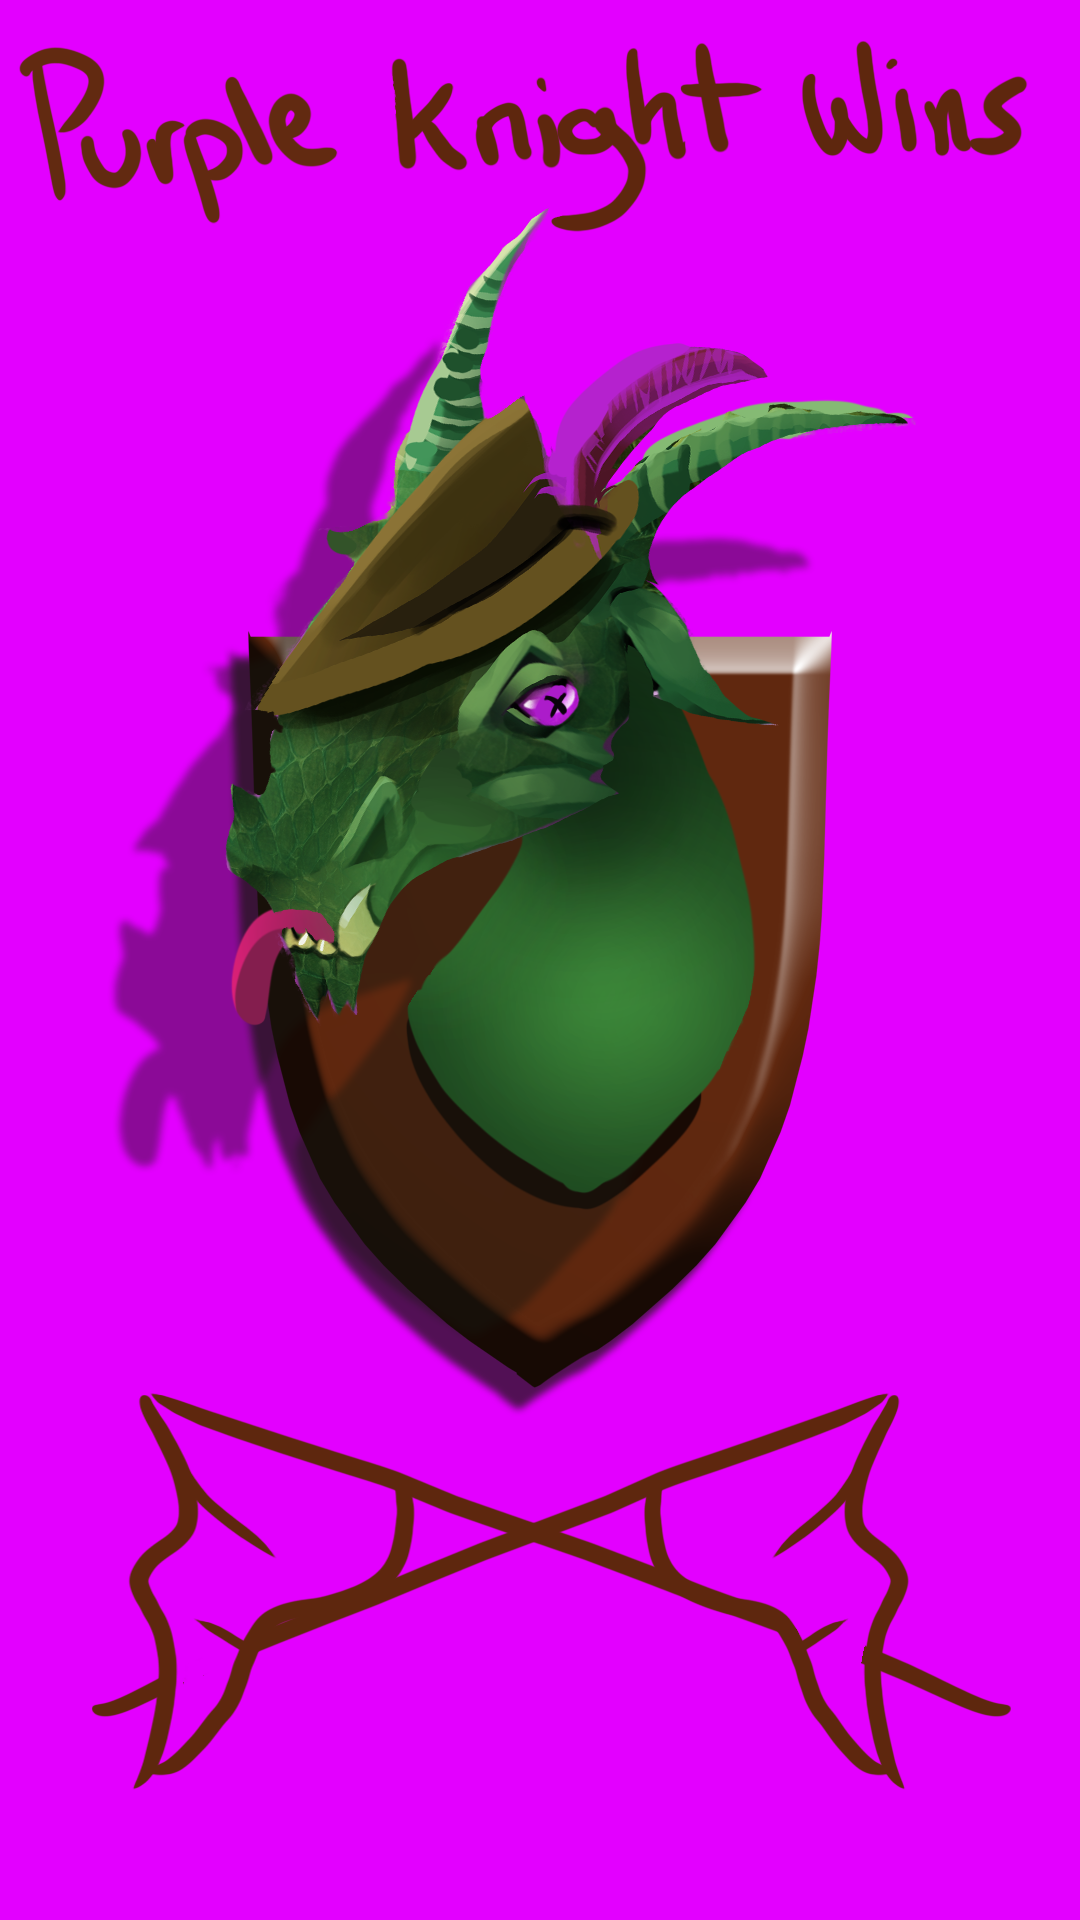
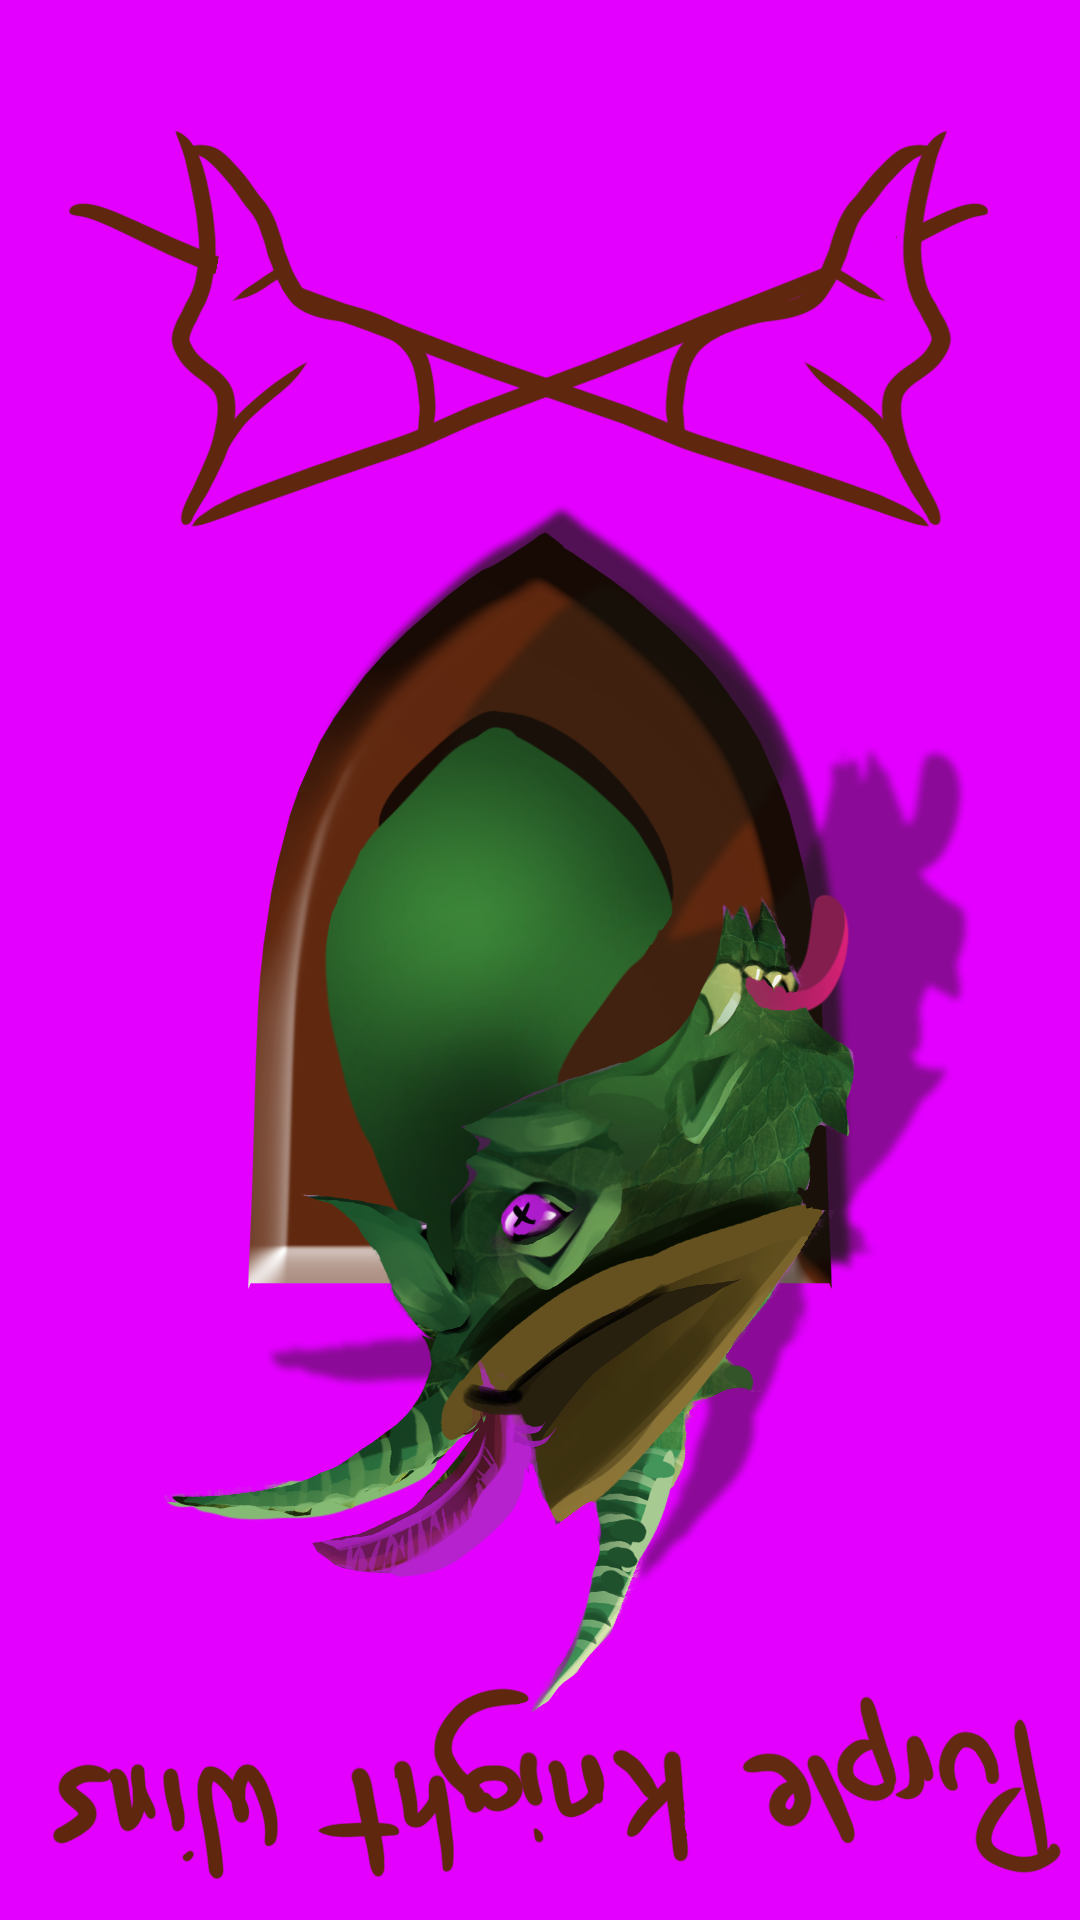
Added credits screen, revamped home screen, added button press noise, changed where end-state redirects to

diff --git a/js/pressable-button.js b/js/pressable-button.js
@@ -1,10 +1,13 @@
 
-var PressableButton = function PressableButton(event, context, team, game, x, y, key) {
+var PressableButton = function PressableButton(event, context, team, game, x, y, key, soundKey) {
   this.pressEvent = event;
   this.originalKey = key;
   this.down = false;
   this.team = team;
   this.eventContext = context;
+
+  if (soundKey)
+    this.sound = game.add.audio(soundKey);
 
   BaseSprite.call(this, game, x, y, key, 0);
 
@@ -20,6 +23,10 @@ var PressableButton = function PressableButton(event, context, team, game, x, y,
   this.events.onInputUp.add(function (sprite, pointer) {
     this.loadTexture(this.originalKey)
     if (this.down && this.pressEvent) {
+
+      if (this.sound)
+        this.sound.play();
+
       this.pressEvent.call(this.eventContext, this.team);
     }
     this.down = false;
@@ -39,6 +46,12 @@ PressableButton.preload = function preload(game) {
   game.load.image('attack-1-down', 'assets/attack-1-down.png');
   game.load.image('deal-1', 'assets/deal-1.png');
   game.load.image('deal-1-down', 'assets/deal-1-down.png');
+  game.load.image('credits-btn', 'assets/credits-btn.png');
+  game.load.image('credits-btn-down', 'assets/credits-btn-down.png');
+  game.load.image('instructions-btn', 'assets/instructions-btn.png');
+  game.load.image('instructions-btn-down', 'assets/instructions-btn-down.png');
+  game.load.image('start-btn', 'assets/start-btn.png');
+  game.load.image('start-btn-down', 'assets/start-btn-down.png');
 };
 
 PressableButton.prototype = Object.create(BaseSprite.prototype);

diff --git a/js/intro-state.js b/js/intro-state.js
@@ -10,19 +10,14 @@ IntroState.prototype.create = function create() {
   Phaser.State.prototype.create.call(this);
 
   this.game.add.image(0, 0, 'intro');
+  var _game = this.game;
+  this.game.add.existing(new PressableButton(function () { _game.state.start('credits'); }, this, 0, this.game, 225, 150, 'credits-btn', 'buttonPress'));
+  this.game.add.existing(new PressableButton(function () { _game.state.start('tutorial'); }, this, 0, this.game, 225, 1715, 'instructions-btn', 'buttonPress'));
+  this.game.add.existing(new PressableButton(function () { _game.state.start('default'); }, this, 0, this.game, 663, 971, 'start-btn', 'buttonPress'));
 
 };
 
 IntroState.prototype.update = function update() {
-    if (this.game.input.activePointer.isDown) {
-      if (this.game.input.activePointer.x > 72 && this.game.input.activePointer.x < 315 &&
-          this.game.input.activePointer.y > 1703 && this.game.input.activePointer.y < 1850) {
-        //72, 1703
-        // 315, 1850
-        this.game.state.start('tutorial');
-      } else if (this.game.input.activePointer.x > 296 && this.game.input.activePointer.x < 1028 &&
-          this.game.input.activePointer.y > 867 && this.game.input.activePointer.y < 1014) {
-        this.game.state.start('default');
-      }
-  }
+
+  
 };

diff --git a/js/main.js b/js/main.js
@@ -35,7 +35,8 @@ function main() {
 
       // Other assets
       //game.load.image('bkg', 'assets/gameboard.png');
-      game.load.image('intro', 'assets/intro.jpg');
+      game.load.image('intro', 'assets/intro.png');
+      game.load.image('credits', 'assets/credits.png');
       game.load.image('instructions', 'assets/instructions.jpg');
       game.load.image('instructions2', 'assets/instructions_page 2.jpg');
       game.load.image('valid-tap', 'assets/valid-tap.png');
@@ -47,6 +48,7 @@ function main() {
       game.load.audio('attack', ['assets/sounds/attack.ogg', 'assets/sounds/attack.m4a']);
       game.load.audio('attack-failed', ['assets/sounds/attack-failed.ogg']);
       game.load.audio('playCard', ['assets/sounds/playCard.ogg']);
+      game.load.audio('buttonPress', ['assets/sounds/buttonPress.ogg']);
     },
 
     create: function create() {
@@ -58,6 +60,7 @@ function main() {
 
       game.state.add('intro', new IntroState());
       game.state.add('tutorial', new TutorialState());
+      game.state.add('credits', new CreditsState());
       game.state.add('default', new DefaultState());
       game.state.add('draw', new EndState(-1));
       game.state.add('winner0', new EndState(0));

diff --git a/js/end-state.js b/js/end-state.js
@@ -5,7 +5,7 @@ var EndState = function EndState(victor) {
 
 EndState.prototype = Object.create(Phaser.State);
 
-EndState.prototype.constructor = IntroState;
+EndState.prototype.constructor = EndState;
 
 EndState.prototype.create = function create() {
   Phaser.State.prototype.create.call(this);
@@ -18,6 +18,6 @@ EndState.prototype.create = function create() {
 
 EndState.prototype.update = function update() {
     if (this.game.input.activePointer.isDown) {    
-      this.game.state.start('default');
+      this.game.state.start('intro');
     }
 };

diff --git a/js/credits-state.js b/js/credits-state.js
@@ -1,0 +1,21 @@
+var CreditsState = function CreditsState() {
+  Phaser.State.call(this);
+};
+
+CreditsState.prototype = Object.create(Phaser.State);
+
+CreditsState.prototype.constructor = CreditsState;
+
+CreditsState.prototype.create = function create() {
+  Phaser.State.prototype.create.call(this);
+  
+  this.game.add.image(0, 0, 'credits');
+  
+
+};
+
+CreditsState.prototype.update = function update() {
+    if (this.game.input.activePointer.isDown) {    
+      this.game.state.start('intro');
+    }
+};

diff --git a/index.html b/index.html
@@ -13,6 +13,7 @@
   <script type="text/javascript" src="js/default-state.js"></script>
   <script type="text/javascript" src="js/intro-state.js"></script>
   <script type="text/javascript" src="js/tutorial-state.js"></script>
+  <script type="text/javascript" src="js/credits-state.js"></script>
   <script type="text/javascript" src="js/end-state.js"></script>
 
   <script src="js/base-sprite.js"></script>
